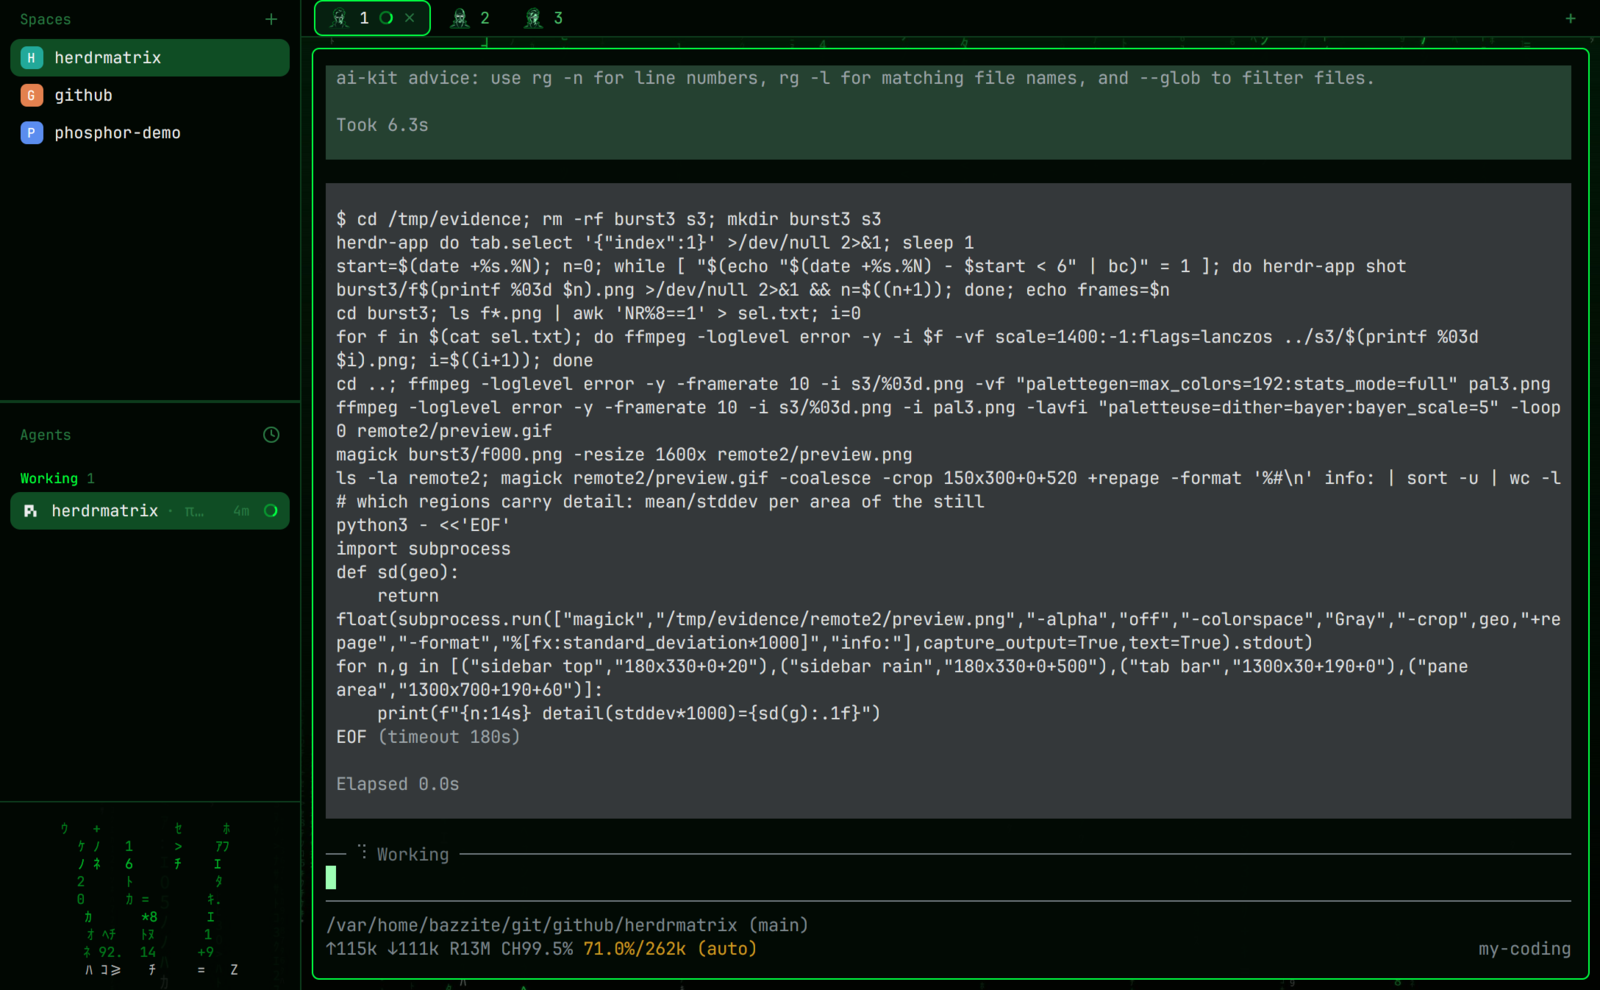
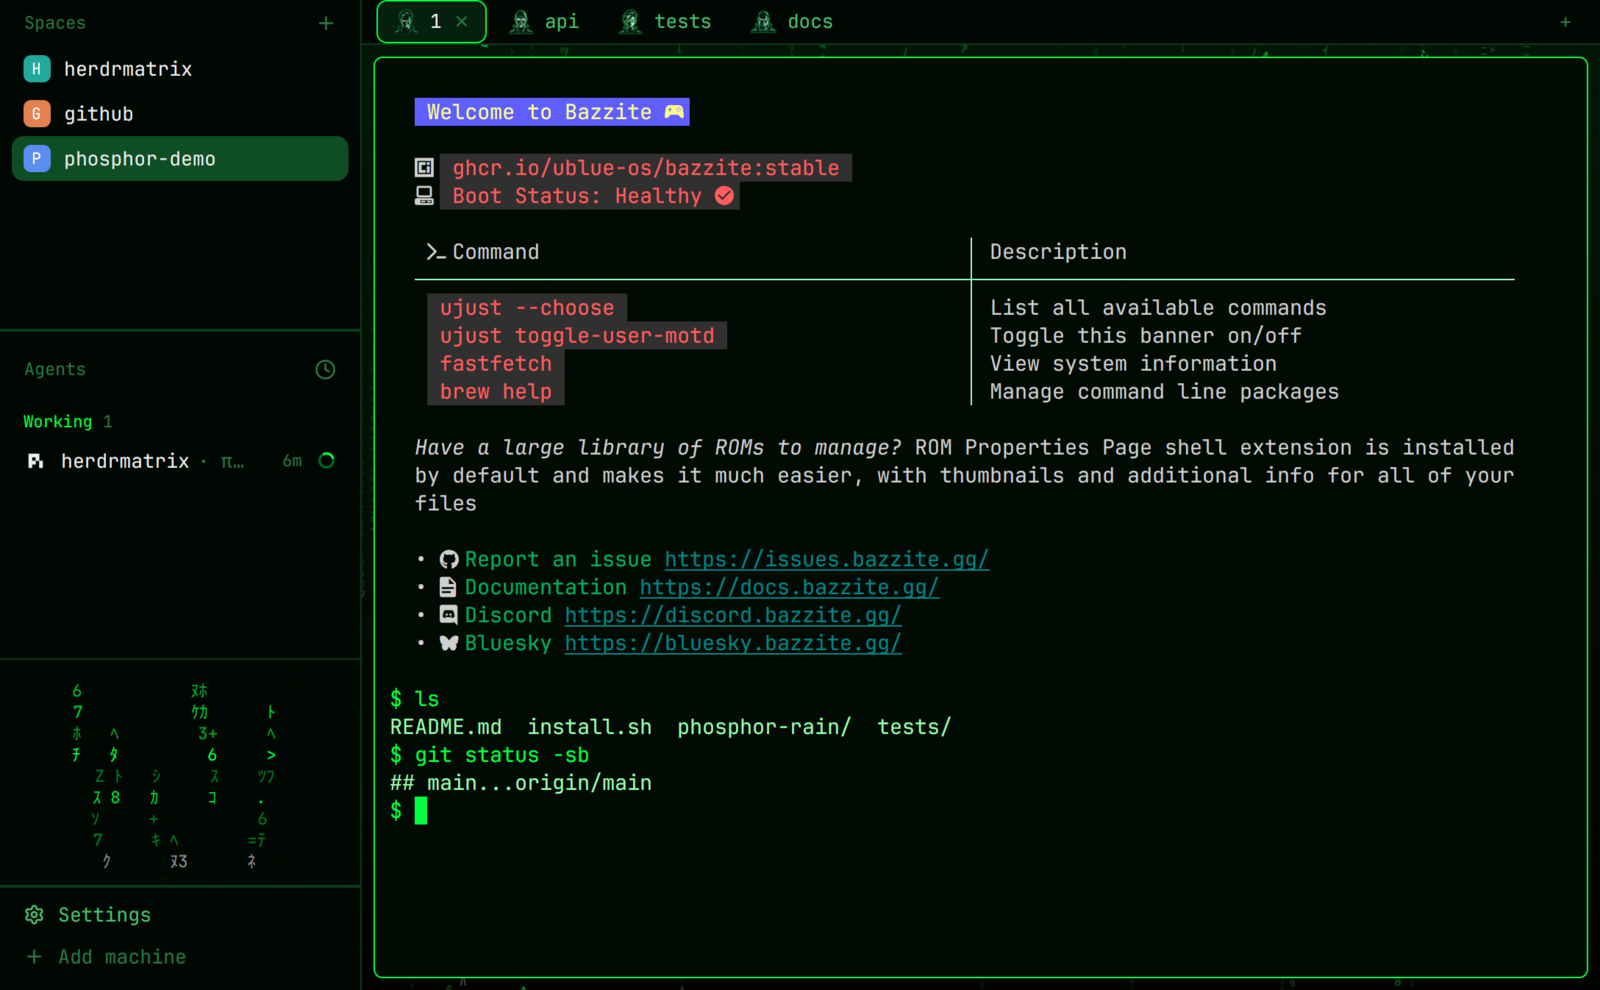
feat: keep Settings and Add machine in the Phosphor Rain sidebar
The layout dropped the shipped sidebar footer, so the Settings and Add
machine rows were unreachable from the UI once the theme was active.

- layouts/phosphor-rain.json: add a sidebar-footer block that reuses the
  shipped workspace-chrome mod (footer: true), below the rain block
- layouts/phosphor-rain.svg: show the footer in the layout preview
- README: document layout options (hide footer, resize or hide the rain)
- RECIPE.md: describe the footer and how to hide it
- preview.gif / preview.png recorded with the footer visible

diff --git a/phosphor-rain/RECIPE.md b/phosphor-rain/RECIPE.md
@@ -7,7 +7,7 @@ Herdr in green-phosphor neon on near-black. The sidebar (spaces, agents) has a c
 ## What you see
 
 - **Background:** `mods/phosphor-rain/backgrounds/phosphor-rain.jpg` (2560×1600, `cover`). It shows digital rain in three depths on a `#001a07` → `#000300` gradient, with scanlines and a vignette.
-- **Sidebar (left, 240px, `#010702e0`):** shipped `spaces` on top, shipped `agents` below, and a 150px `rain` block at the bottom. The rain is 22 columns × 9 rows of 11px half-width katakana, digits and symbols, falling in streaks of 4 in `#00ff41`. The bottom row is `#9dffb4`.
+- **Sidebar (left, 240px, `#010702e0`):** shipped `spaces` on top, shipped `agents` below, a 150px `rain` block, and the shipped `workspace-chrome` footer (69px, `sidebar-footer`) at the bottom with the Settings and Add machine rows. The rain is 22 columns × 9 rows of 11px half-width katakana, digits and symbols, falling in streaks of 4 in `#00ff41`. The bottom row is `#9dffb4`.
 - **Tabs (top, 30px, `#010702cc`):** the `phosphor-tabs` mod, a clone of the shipped `tabs`. Each tab shows an 18px image by position: `mods/phosphor-rain/tabs/tab-1.png` … `tab-9.png`, repeating from tab 10. The active tab has a 1px `#00ff41` border. The Files and Changes buttons open the right panel.
 - **Right panel (320px, hidden by default):** a `panel-body` stack with the shipped `files` and `changes` mods.
 - **Panes:** 8px padding and gap, radius 6, background `#020a04b3`, 1px border `#0d3b1c`. The focused pane's border is `#00ff41`. A single pane is framed too (`lone: true`).
@@ -22,6 +22,7 @@ Herdr in green-phosphor neon on near-black. The sidebar (spaces, agents) has a c
 - Each row is one element with .frames at 110 ms. Columns share a speed but start at different offsets, and each row pulses in opacity (0.45–1, with a 1.1–1.8 s period).
 - Tab images follow position. Dragging a tab to a new spot gives it that spot's image.
 - The rain block can be resized by dragging its top divider (0–400px) or hidden with `layout.toggle {id: "rain"}`.
+- The footer can be hidden with `layout.toggle {id: "sidebar-footer"}`, or permanently by adding `"hidden": true` to the `sidebar-footer` node in `layouts/phosphor-rain.json`. Settings stay reachable with `herdr-app do app.settings`.
 
 ## Built from
 

diff --git a/README.md b/README.md
@@ -63,6 +63,18 @@ Environment variables:
 | `HM_SRC` | unset | Local directory to copy from instead of downloading. It must contain `phosphor-rain/`. |
 | `HM_TARBALL_URL` | unset | Full tarball URL. Overrides `HM_REPO` and `HM_REF`. |
 
+## Layout options
+
+The layout is plain JSON, so its "knobs" are node properties in `~/.config/herdr-app/layouts/phosphor-rain.json`:
+
+| Option | How |
+| --- | --- |
+| Hide the Settings / Add machine footer | Add `"hidden": true` to the `sidebar-footer` node, or run `herdr-app do layout.toggle '{"id":"sidebar-footer"}'` |
+| Make the rain block taller or shorter | Drag its top divider, or `herdr-app do layout.resize '{"id":"rain","px":150}'` |
+| Hide the rain block | `herdr-app do layout.toggle '{"id":"rain"}'` |
+
+Re-running the installer with `--force` replaces the layout file, so keep local edits in a copy.
+
 ## What gets installed
 
 Into `~/.config/herdr-app`:
